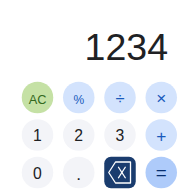
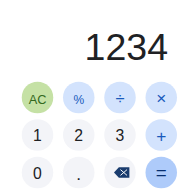
Move auto button to top-right as kebab menu, slim down backspace

Changed region(s): [[0.5312, 0.8125, 0.7188, 1.0]]

diff --git a/android/index.html b/android/index.html
@@ -40,7 +40,7 @@
   .meta-bar {
     position: absolute;
     top: calc(env(safe-area-inset-top) + 18px);
-    left: 22px;
+    right: 22px;
     display: flex;
     align-items: center;
     gap: 10px;
@@ -49,15 +49,16 @@
   .auto-btn {
     background: transparent;
     border: none;
-    padding: 4px;
+    padding: 6px 8px;
     cursor: pointer;
-    color: #9aa0a6;
+    color: #1967d2;
     display: flex;
     align-items: center;
-    transition: opacity 0.25s;
+    transition: opacity 0.25s, background 0.15s;
+    border-radius: 9999px;
   }
   .auto-btn svg { display: block; }
-  .auto-btn.armed .sb-rect { fill: #9aa0a6; fill-opacity: 0.22; }
+  .auto-btn.armed { background: #d3e3fd; }
   .auto-btn.flash { opacity: 0.45; }
   .digit-count {
     color: #bdc1c6;
@@ -169,10 +170,9 @@
   }
 
   button.key.backspace {
-    background: #1a3c6e;
-    color: #ffffff;
-    border-radius: 18px;
-    padding: 14px;
+    background: #f3f4f8;
+    border-radius: 9999px;
+    padding: 22px;
   }
   button.key.backspace svg { width: 100%; height: 100%; display: block; }
 
@@ -185,8 +185,8 @@
     button.key.func { font-size: 32px; }
     button.key.op { font-size: 38px; }
     .keypad { gap: 18px; padding: 14px 28px 28px 28px; height: clamp(500px, 56vh, 720px); }
-    .meta-bar { top: calc(env(safe-area-inset-top) + 24px); left: 30px; gap: 12px; }
-    .auto-btn svg { width: 28px; height: 22px; }
+    .meta-bar { top: calc(env(safe-area-inset-top) + 24px); right: 30px; gap: 12px; }
+    .auto-btn svg { width: 28px; height: 28px; }
     .digit-count { font-size: 14px; }
   }
 
@@ -199,13 +199,14 @@
 <body>
   <div class="app" id="app">
     <div class="meta-bar">
+      <span class="digit-count" id="digitCount"></span>
       <button class="auto-btn" id="autoBtn" aria-label="auto">
-        <svg viewBox="0 0 28 24" width="28" height="24" fill="none" stroke="currentColor" stroke-width="2">
-          <rect class="sb-rect" x="2" y="2" width="24" height="20" rx="3"/>
-          <line x1="9" y1="2" x2="9" y2="22"/>
+        <svg viewBox="0 0 24 24" width="24" height="24" fill="currentColor">
+          <circle cx="12" cy="5" r="2.2"/>
+          <circle cx="12" cy="12" r="2.2"/>
+          <circle cx="12" cy="19" r="2.2"/>
         </svg>
       </button>
-      <span class="digit-count" id="digitCount"></span>
     </div>
     <div class="display-area">
       <div class="display-expr" id="displayExpr"><span class="display-expr-inner" id="displayExprInner"></span></div>
@@ -231,10 +232,12 @@
       <button class="key" data-digit="0">0</button>
       <button class="key" data-digit=".">.</button>
       <button class="key backspace" data-action="backspace" aria-label="backspace">
-        <svg viewBox="0 0 32 24" preserveAspectRatio="xMidYMid meet" fill="none" stroke="currentColor" stroke-width="2.6" stroke-linecap="round" stroke-linejoin="round" aria-hidden="true" vector-effect="non-scaling-stroke">
-          <path d="M30 3 L11 3 L1 12 L11 21 L30 21 A1 1 0 0 0 31 20 L31 4 A1 1 0 0 0 30 3 Z"/>
-          <line x1="14" y1="8.5" x2="23" y2="15.5"/>
-          <line x1="23" y1="8.5" x2="14" y2="15.5"/>
+        <svg viewBox="0 0 32 24" preserveAspectRatio="xMidYMid meet" aria-hidden="true">
+          <path d="M30 3 L11 3 L1 12 L11 21 L30 21 A1 1 0 0 0 31 20 L31 4 A1 1 0 0 0 30 3 Z" fill="#1a3c6e"/>
+          <g fill="none" stroke="#ffffff" stroke-width="2.6" stroke-linecap="round" stroke-linejoin="round" vector-effect="non-scaling-stroke">
+            <line x1="14" y1="8.5" x2="23" y2="15.5"/>
+            <line x1="23" y1="8.5" x2="14" y2="15.5"/>
+          </g>
         </svg>
       </button>
       <button class="key op" data-op="=">=</button>

diff --git a/android/service-worker.js b/android/service-worker.js
@@ -1,4 +1,4 @@
-const CACHE_NAME = 'dentaku-android-v3';
+const CACHE_NAME = 'dentaku-android-v4';
 const ASSETS = [
   './',
   './index.html',